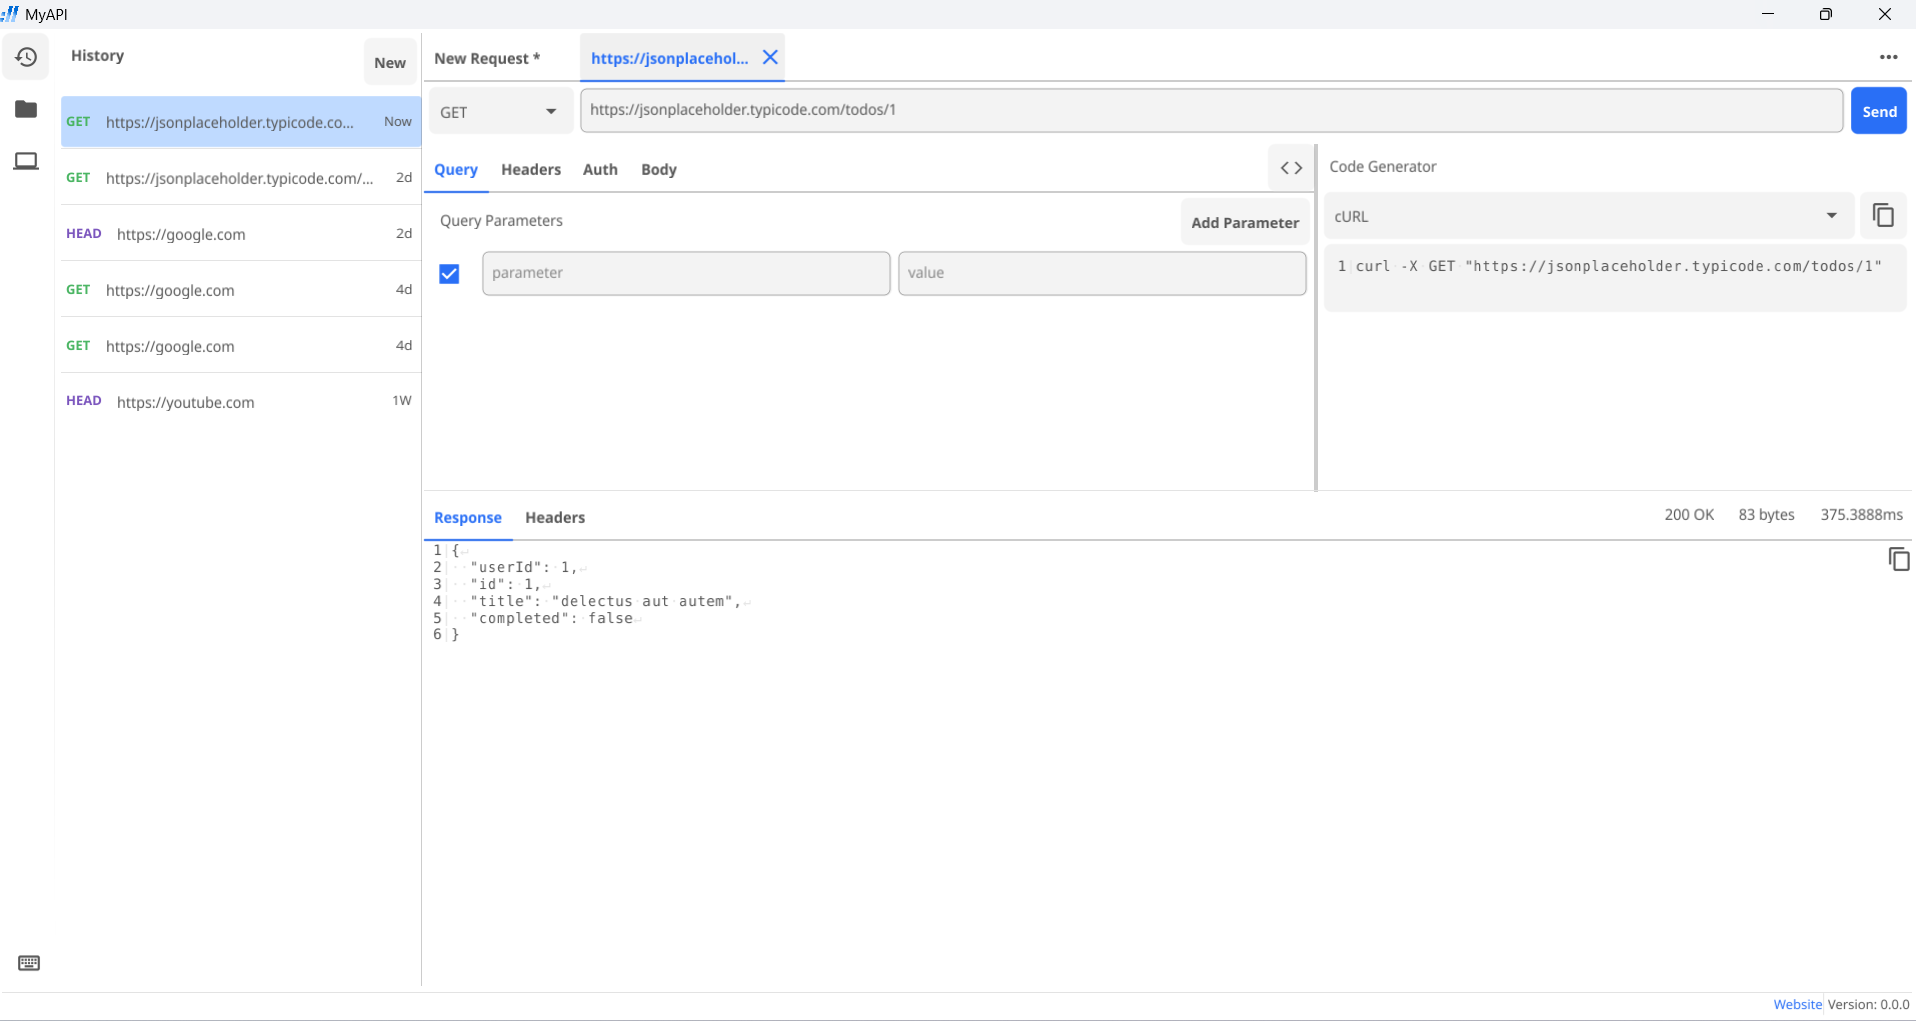
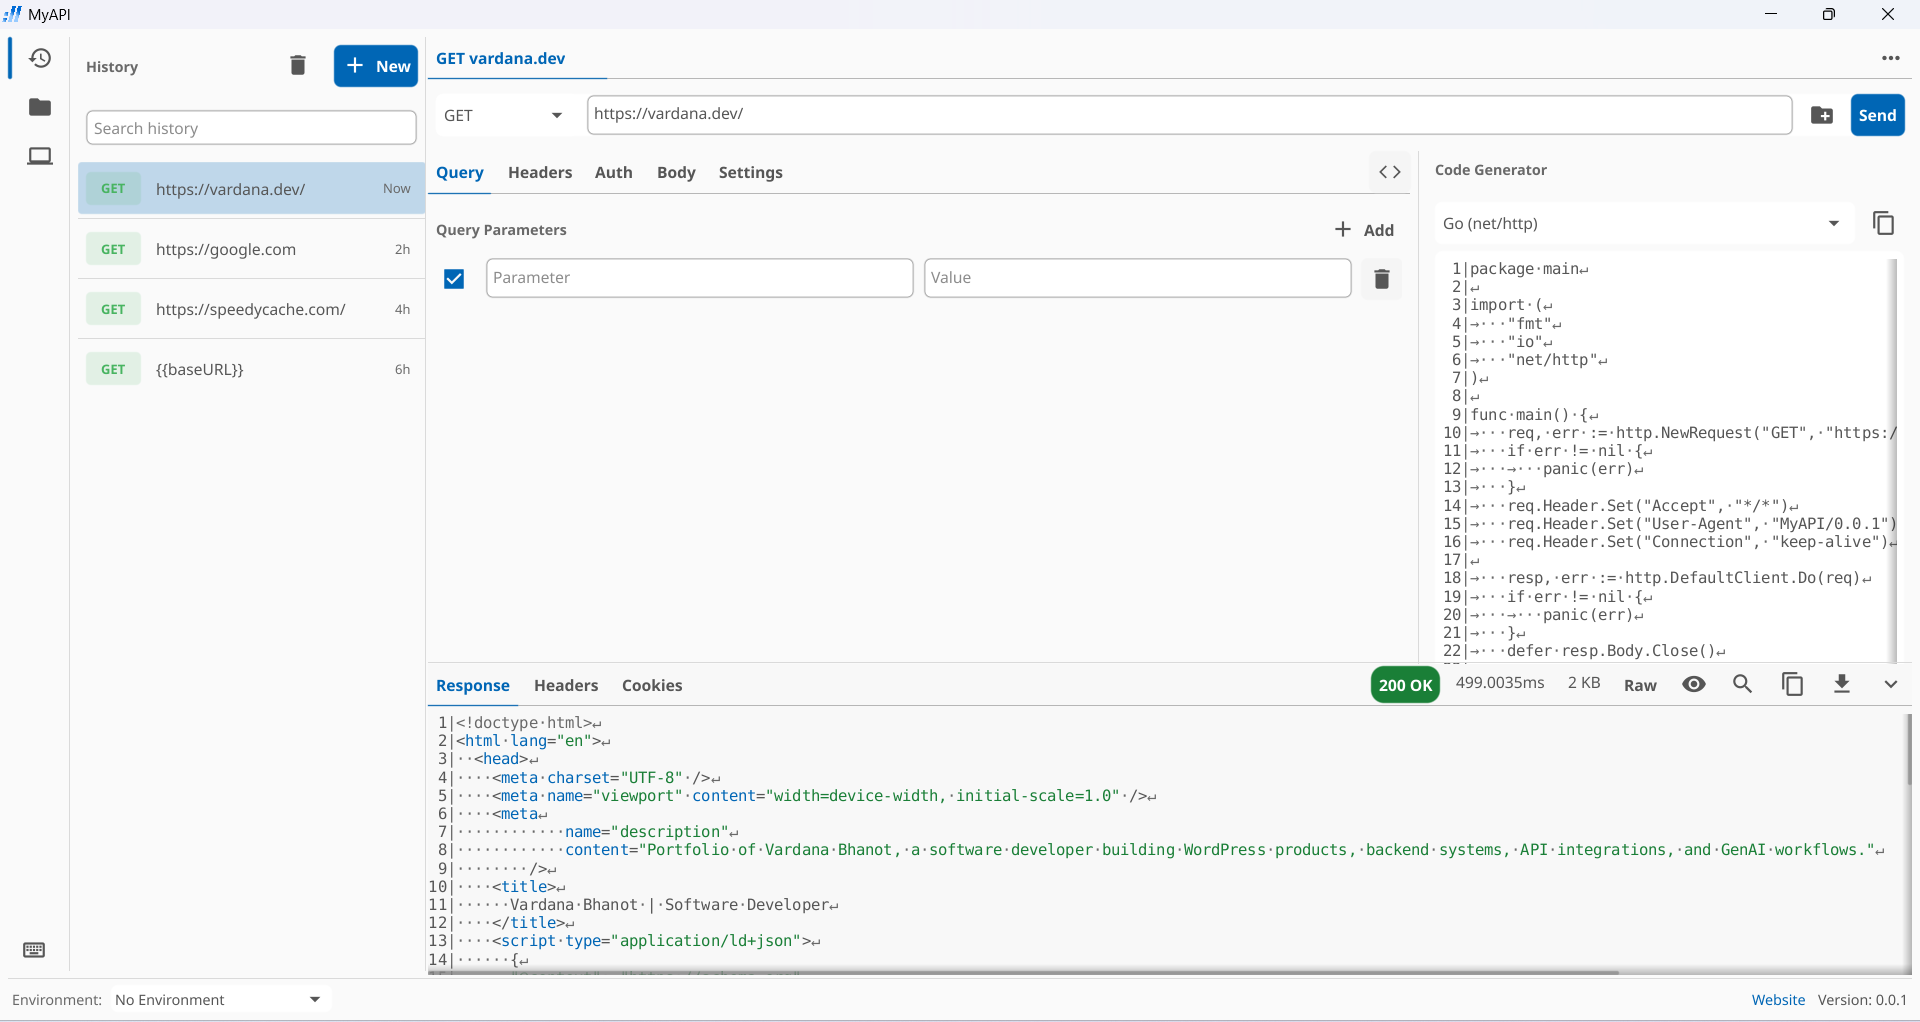
Updating the readme, to show the current state of the APP

diff --git a/README.md b/README.md
@@ -1,29 +1,68 @@
-<img src="/myapi-logo-light.png" alt="myAPI logo" title="myAPI" align="left" height="60px"/>
+<img src="/myapi-logo-light.png" alt="myAPI logo" title="myAPI" align="left" height="60px"/>
 <br>
 
 # myAPI
 
-myAPI is a simple API testing tool, made in Go using Fyne Toolkit
+**The API client that's just an app.** myAPI is a fast, native API testing tool written in Go with the [Fyne](https://fyne.io) toolkit. No account, no cloud, no Electron — open the app, send the request.
+
+**Website:** [vardana.dev/myapi](https://vardana.dev/myapi/) · **Download:** [latest release](https://github.com/vardanabhanot/myapi/releases/latest)
 
 > [!NOTE]
-> This project is in its early stages, but you're welcome to give it a try!
->
+> myAPI is in **alpha**. It's usable for day-to-day request testing, but expect rough edges and breaking changes between releases. Bug reports are very welcome.
 
 ## Screenshots
-![my-api-dev-state.png](https://github.com/vardanabhanot/myapi/blob/main/my-api-dev-state.png)
-![my-api-dev-state-dark.png](https://github.com/vardanabhanot/myapi/blob/main/my-api-dev-state-dark.png)
 
-## TODO
+![myAPI in light mode](https://github.com/vardanabhanot/myapi/blob/main/my-api-dev-state.png)
+![myAPI in dark mode](https://github.com/vardanabhanot/myapi/blob/main/my-api-dev-state-dark.png)
 
-- [ ] Comment the code well.
-- [X] Syntax highlighting of Response.
-- [X] Shortcut to hide the response container.
-- [X] Code generator(Base structure done and basic support for cURL and PHP added)
-- [ ] Workspace
-- [X] Variables(Environment variables and more)
-- [X] Collections, so that similar API endpoints could be grouped.
-- [ ] Option to be able to document endpoints.
-- [ ] Support for multipart forms.
-- [ ] Adding a Spinner, Fyne has Activity widget, but want to add a Spinner when the request is happening.
-- [X] Option to cancel the request.
-- [X] Fix the memory issue that occurs when a lot of tabs with content exceding 200 characters are used, as memory usage increases exponentially.
+## Features
+
+- **Native & offline** — one small binary, no browser runtime; your data never leaves your disk
+- **Collections** — group related endpoints, rename and reorganize them as your API grows
+- **Request history** — every request you send is saved locally
+- **Tabs** — work on several requests side by side
+- **Environment variables** — define `{{variables}}` once, reuse them across URLs, headers, and bodies; quick-switch environments from the footer
+- **Auth** — API Key and OAuth 2.0
+- **cURL import & export** — paste a cURL command to create a request, or copy any request out as cURL
+- **Code generation** — turn any request into cURL, Go, JavaScript, PHP, or Python code
+- **Syntax-highlighted responses**, request timing, and cancellable in-flight requests
+- **Light & dark themes**
+
+## Install
+
+Grab a build from the [releases page](https://github.com/vardanabhanot/myapi/releases/latest):
+
+| Platform | Asset |
+|----------|-------|
+| Windows  | `myapi-windows-amd64.zip` |
+| Linux    | `myapi-linux-amd64.tar.xz` |
+| macOS    | coming soon |
+
+Unpack and run — there's no installer and nothing else to set up.
+
+### Build from source
+
+Requires [Go](https://go.dev) and the [Fyne prerequisites](https://docs.fyne.io/started/) (a C compiler; on Linux also the graphics dev packages):
+
+```sh
+git clone https://github.com/vardanabhanot/myapi
+cd myapi
+go build .
+```
+
+## Roadmap
+
+- [ ] macOS builds
+- [ ] Workspaces
+- [ ] OpenAPI / Postman import
+- [ ] Endpoint documentation
+- [ ] Multipart form support
+- [ ] Request spinner while a request is in flight
+
+## Contributing
+
+myAPI is built in the open. [Star the repo](https://github.com/vardanabhanot/myapi), [file an issue](https://github.com/vardanabhanot/myapi/issues), or send a pull request.
+
+## License
+
+[MIT](LICENSE)